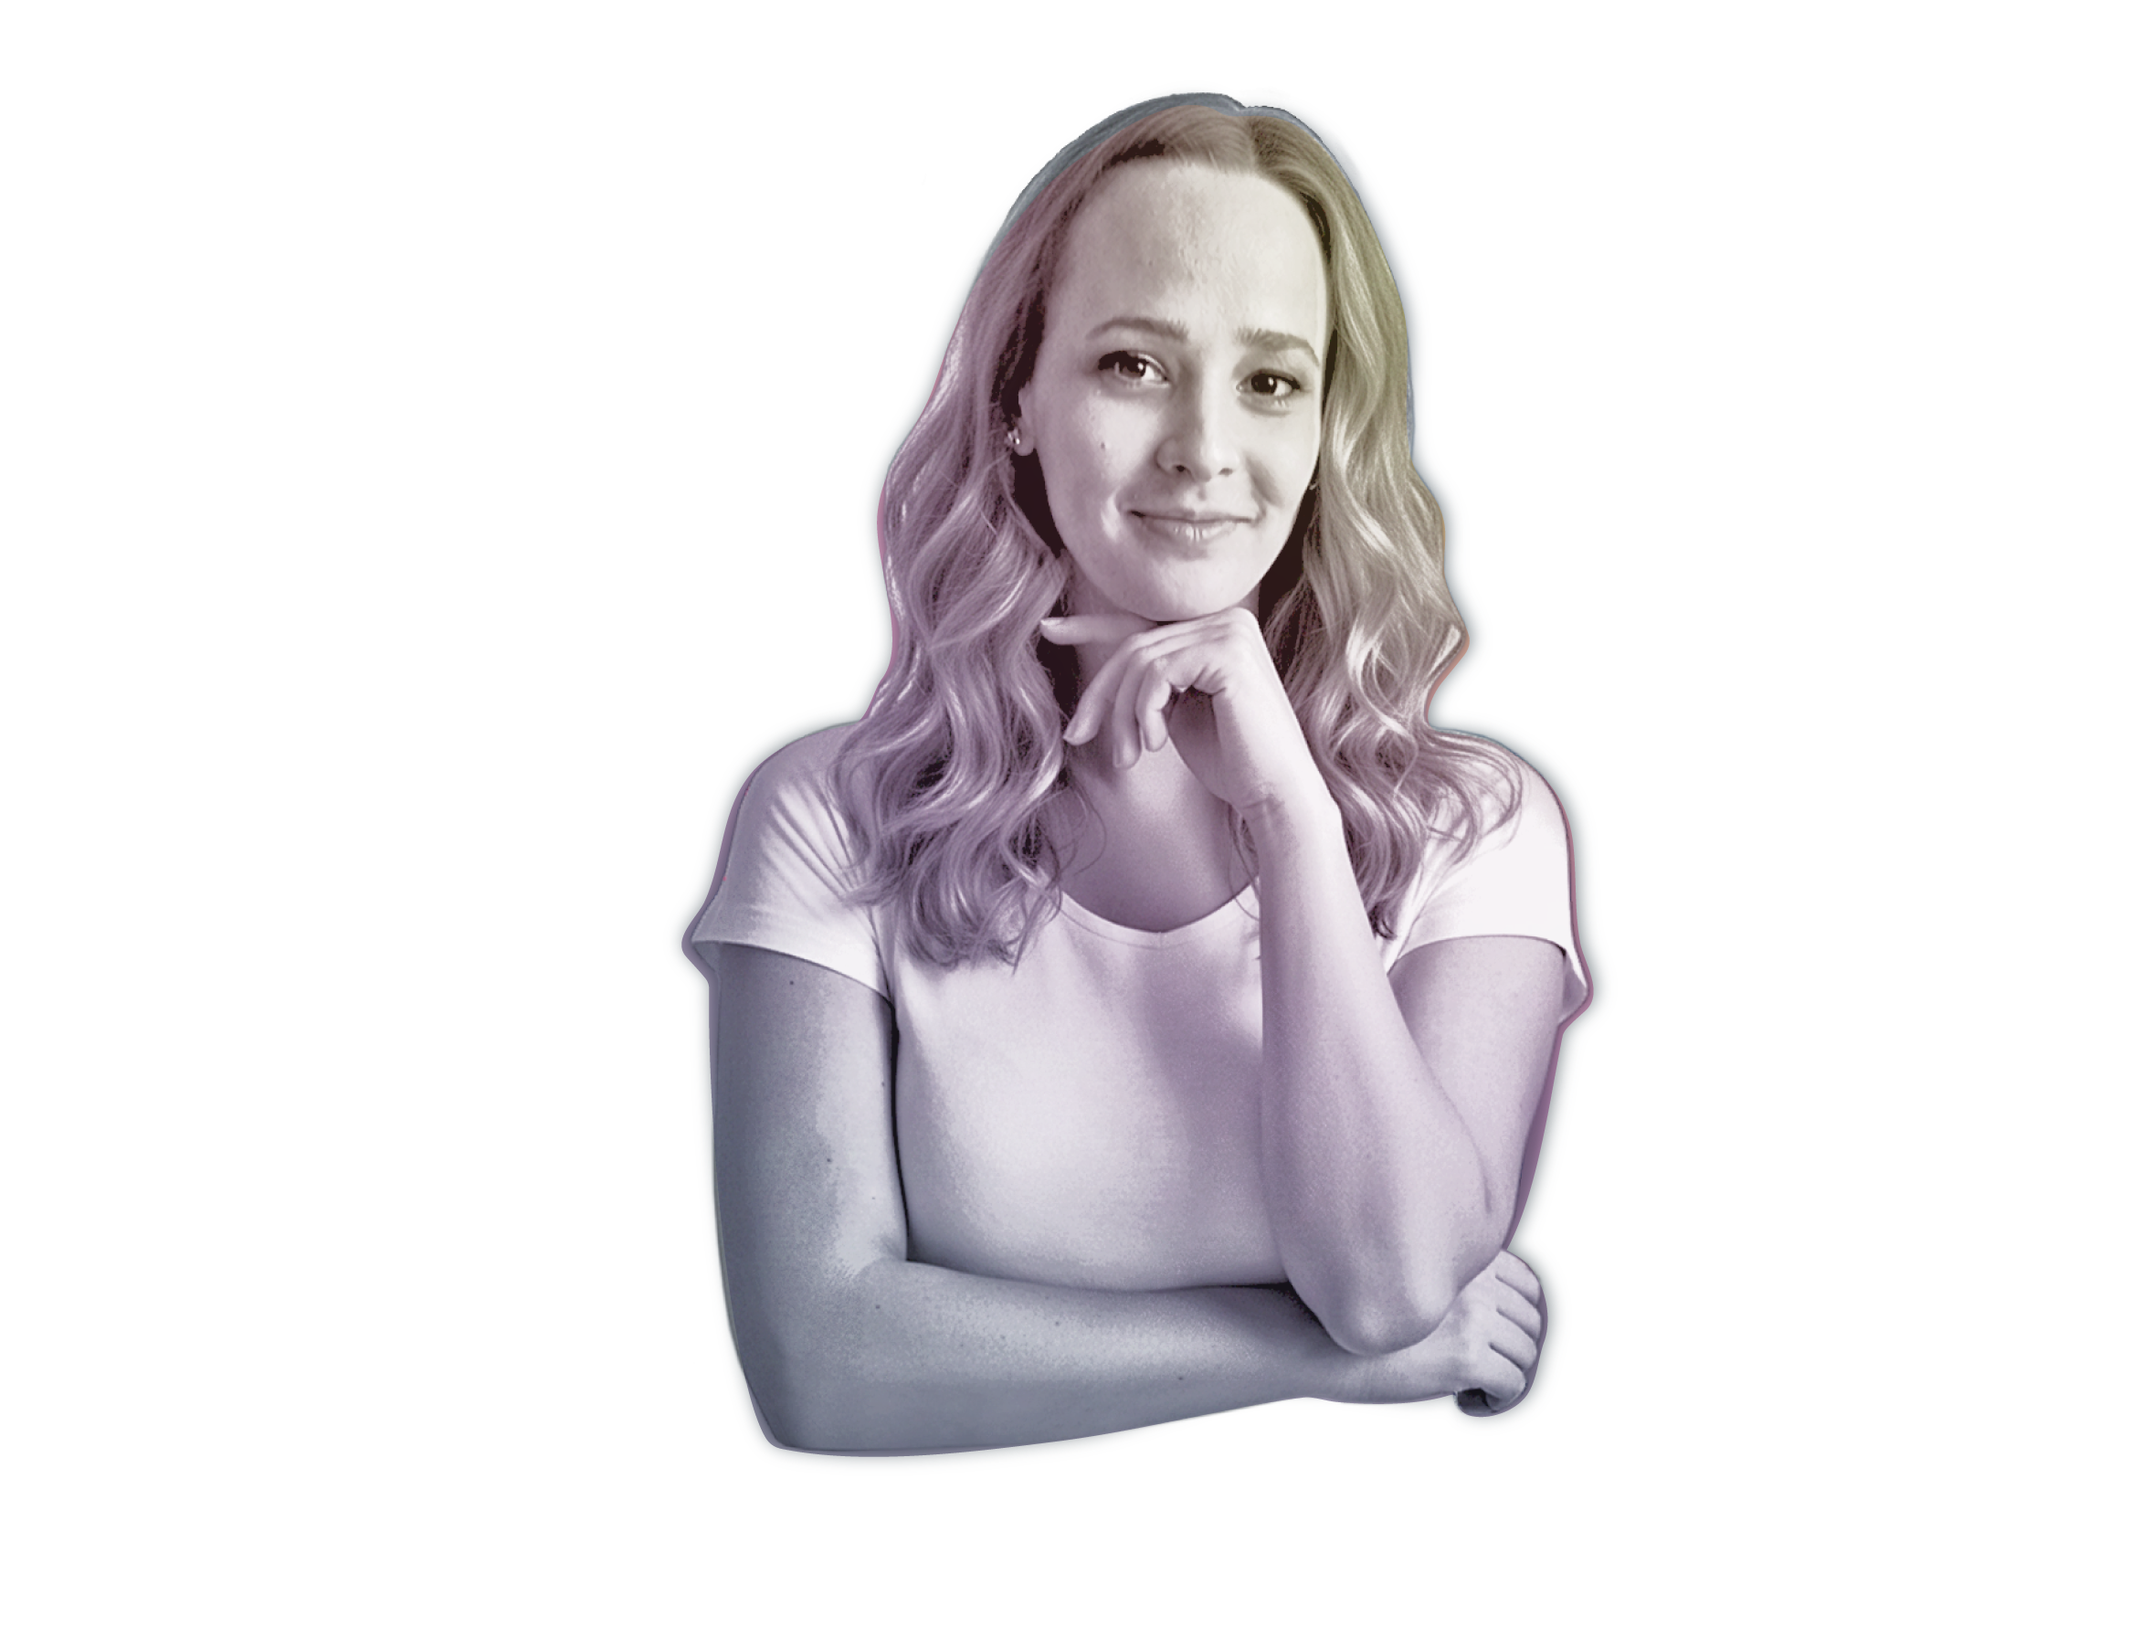
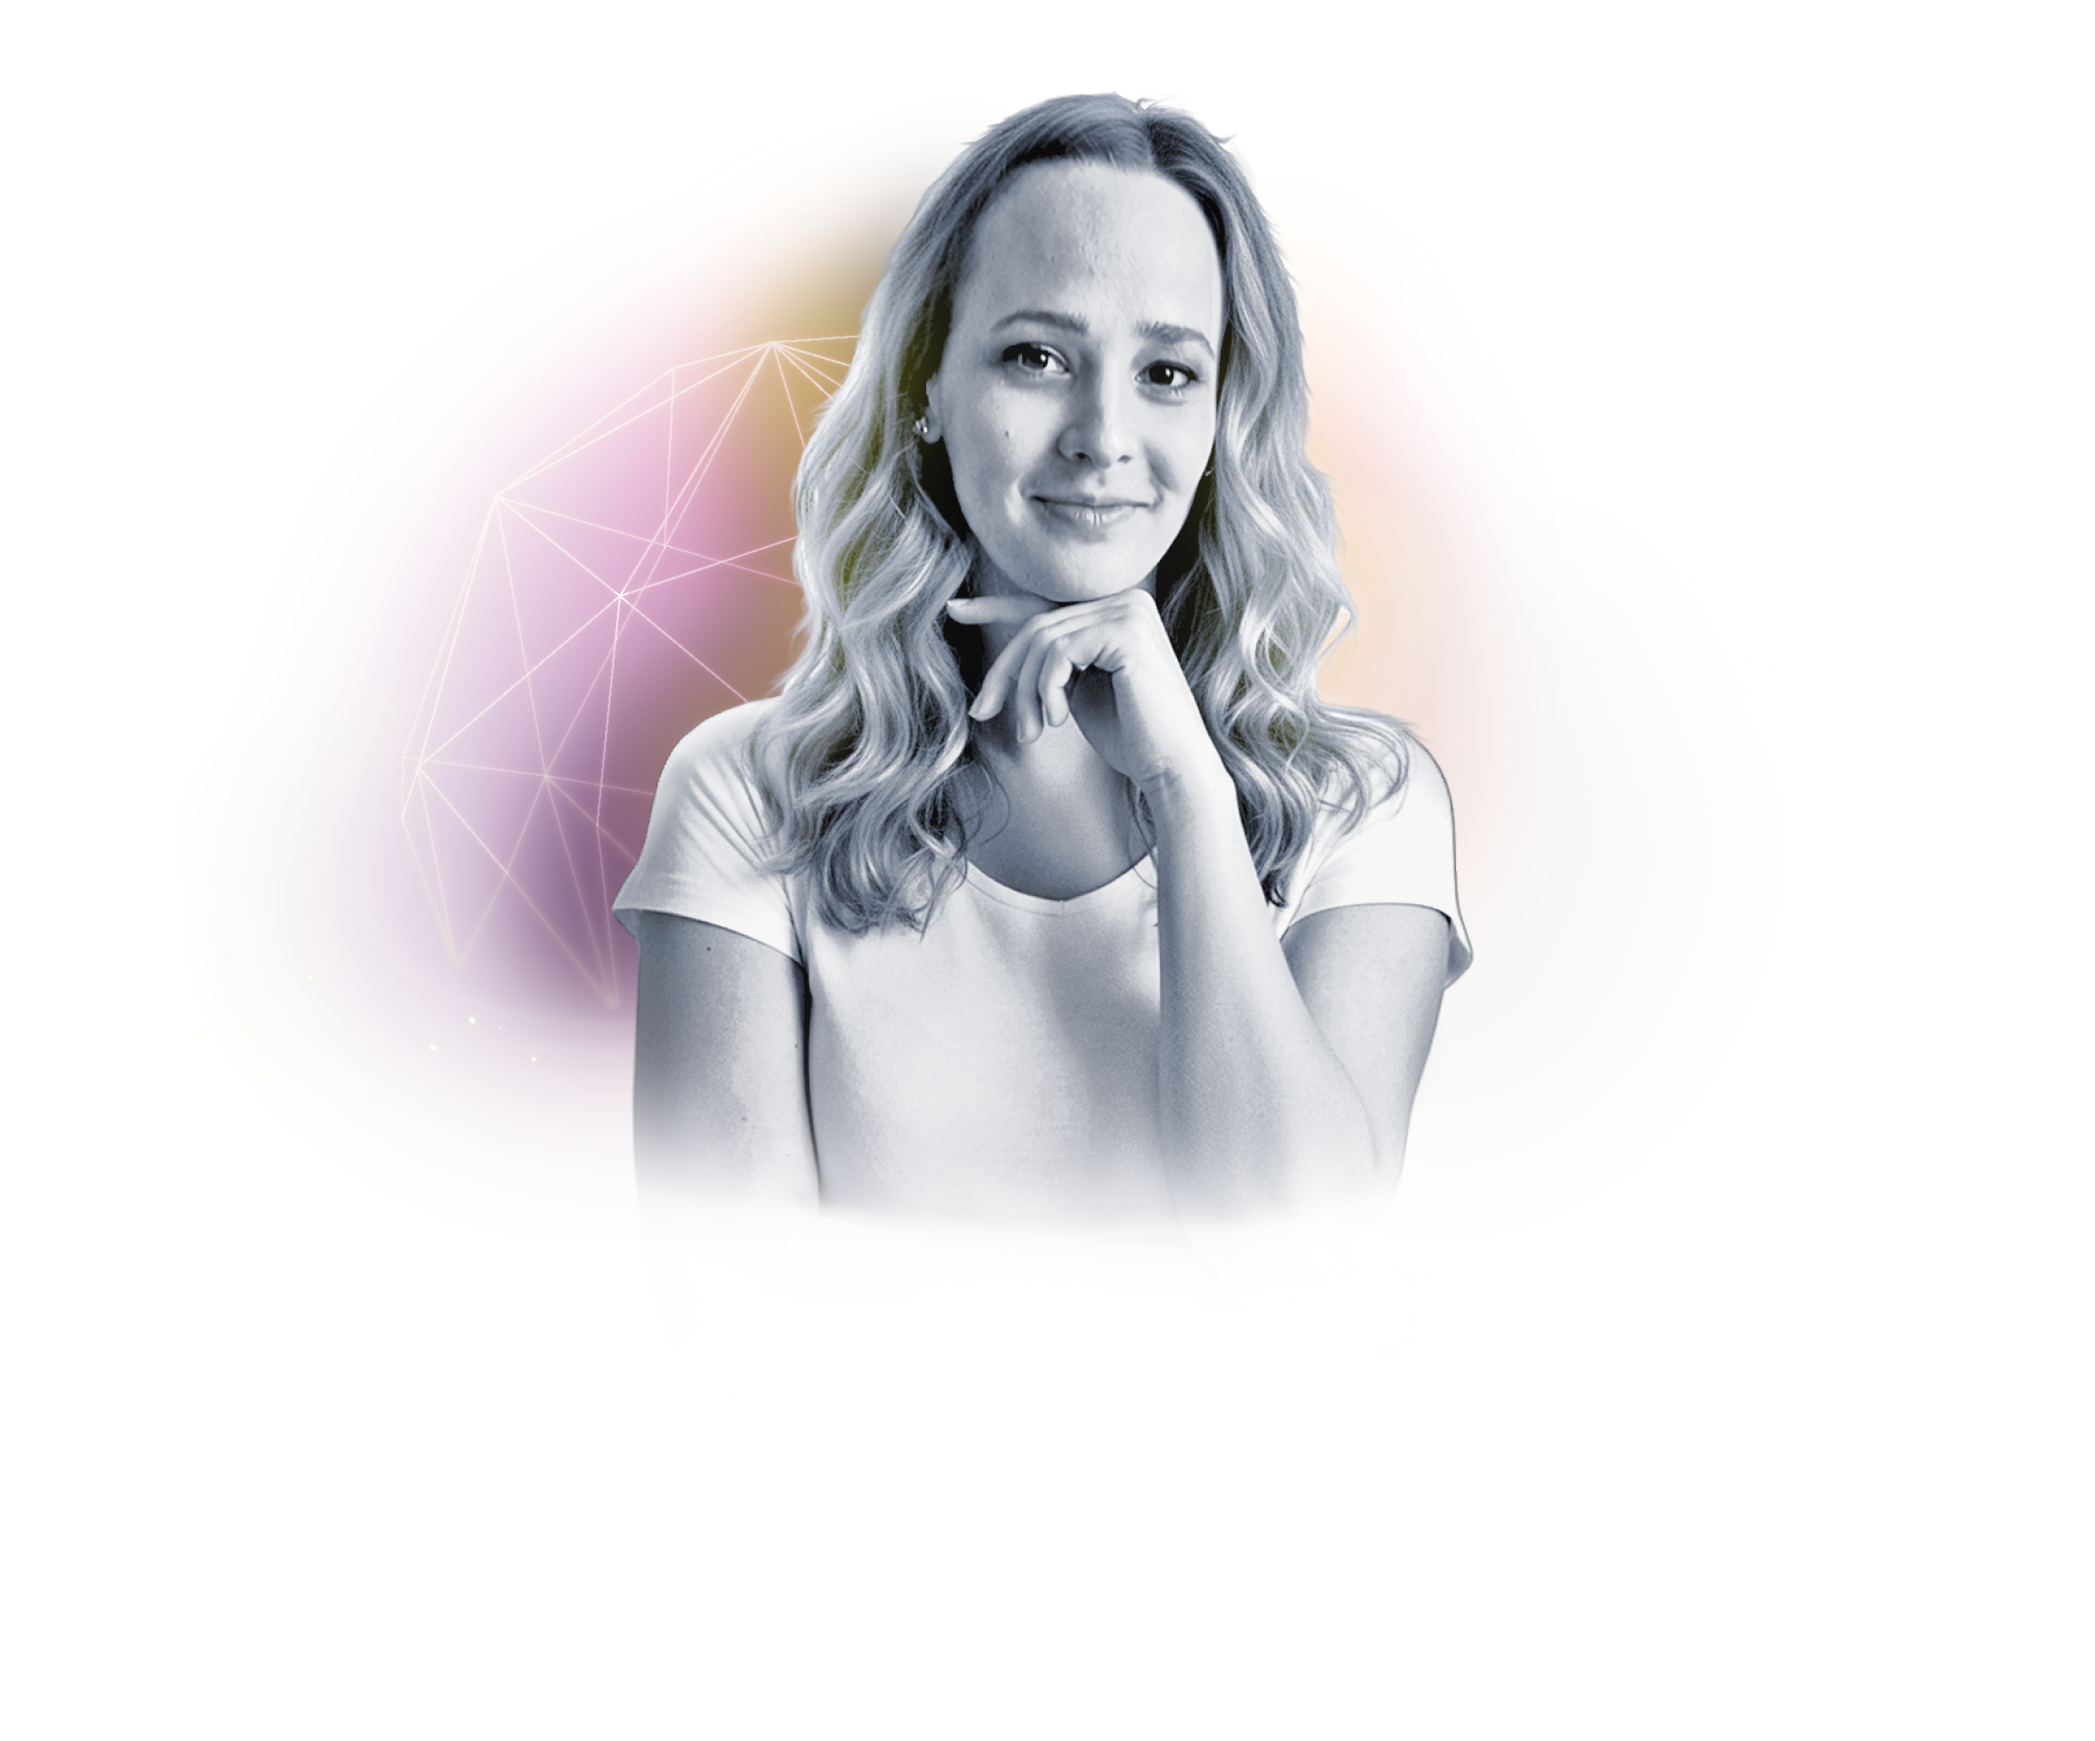
animace, úpravy textu v hero

diff --git a/scss/sections/_hero.scss b/scss/sections/_hero.scss
@@ -60,18 +60,21 @@ h1 {
 }
 
 .picture {
+  z-index: 10;
   position: relative;
   display: block;
   width: 100%;
-  transform: translateX(-10px);
+
+  transform: translate(10px, 20px);
   &::before {
     content: "";
     position: absolute;
-    inset: -30px;
-    background: url("../assets/pictures/light.png") center / contain no-repeat;
-    opacity: 0.6;
-    z-index: -2;
-    animation: lightSway 5s ease-in-out infinite;
+    inset: 0px;
+    background: url("../assets/pictures/wireframe.png") center / contain
+      no-repeat;
+    opacity: 0.9;
+    z-index: 2;
+    animation: lightPulse 3s ease-in-out infinite;
     will-change: transform;
   }
 
@@ -79,11 +82,12 @@ h1 {
     content: "";
     position: absolute;
     inset: 0px;
-    background: url("../assets/pictures/mlha.png") center / contain no-repeat;
+    background: url("../assets/pictures/prstenec.png") center / contain
+      no-repeat;
     opacity: 0.7;
-    z-index: -1;
+    z-index: -2;
     transform-origin: center;
-    animation: fogPulse 5s ease-in-out infinite;
+    animation: gentleFloat 10s ease-in-out infinite;
     will-change: transform;
   }
 
@@ -95,13 +99,21 @@ h1 {
     filter: drop-shadow(-10px 0px 10px c.$DarkShadow);
   }
 
-  .planet {
+  .mlha {
+    position: absolute;
+    inset: -20px;
+    background: url("/assets/pictures/mlha.png") center / contain no-repeat;
+    z-index: 1;
+    animation: lightSway 7s ease-in-out infinite;
+    will-change: transform;
+  }
+
+  .filtr {
     position: absolute;
     inset: 0px;
-    background: url("/assets/pictures/planeta.png") center / contain no-repeat;
-    z-index: -3;
-    filter: drop-shadow(-10px -5px 50px rgb(15, 27, 36, 0.5))
-      drop-shadow(-10px 0px 110px rgb(15, 27, 36, 0.2));
+    background: url("/assets/pictures/filtr.png") center / contain no-repeat;
+    z-index: 100;
+    opacity: 0.4;
   }
 }
 
@@ -134,27 +146,46 @@ h1 {
   }
 }
 
-@keyframes fogPulse {
+@keyframes lightPulse {
   0% {
-    transform: scale(1);
+    opacity: 0.4;
+    filter: brightness(0.8);
   }
+
   50% {
-    transform: scale(1.05);
+    opacity: 1;
+    filter: brightness(1.3);
   }
+
   100% {
-    transform: scale(1);
+    opacity: 0.4;
+    filter: brightness(0.8);
   }
 }
 
 @keyframes lightSway {
   0% {
-    transform: translateY(20px, -40px);
+    transform: translate(0, -20px);
   }
   50% {
-    transform: translateY(calc(20px - 2%), calc(-40px + 1%));
+    transform: translate(calc(0px + 2%), calc(-20px + 1%));
   }
   100% {
-    transform: translateY(20px, -40px);
+    transform: translate(0, -20px);
+  }
+}
+
+@keyframes gentleFloat {
+  0% {
+    transform: translateY(0);
+  }
+
+  50% {
+    transform: translateY(-6px);
+  }
+
+  100% {
+    transform: translateY(0);
   }
 }
 
@@ -182,7 +213,7 @@ h1 {
   }
 
   .design_a_kod {
-    transform: translateX(21px);
+    transform: translateX(15px);
     font-size: s.$HeroScaleKod;
     letter-spacing: 0.02em;
   }
@@ -196,5 +227,11 @@ h1 {
     margin-top: 22px;
     width: s.$HeroButton;
     font-size: 16px;
+  }
+}
+
+@media (min-width: b.$desktopBreakPoint) {
+  .design_a_kod {
+    transform: translateX(20px);
   }
 }

diff --git a/index.html b/index.html
@@ -109,7 +109,8 @@
                 src="./assets/pictures/profilovka.png"
                 alt="profilová fotka"
               />
-              <div class="planet"></div>
+              <div class="mlha"></div>
+              <div class="filtr"></div>
             </div>
           </div>
           <div class="hero_TextButton">

diff --git a/scss/variables/_colors.scss b/scss/variables/_colors.scss
@@ -1,5 +1,5 @@
 $SmallTextColor: rgb(248, 248, 248);
 $DecorationColor: rgb(239, 0, 131);
 $DarkShadow: rgba(25, 46, 60, 0.3);
-$textLight: 0px 0px 3px rgba(255, 255, 246, 0.3);
+$textLight: 0px 0px 25px rgba(255, 255, 246, 0.8);
 // $TextShadow: rgba(0, 0, 0, 0.7);
